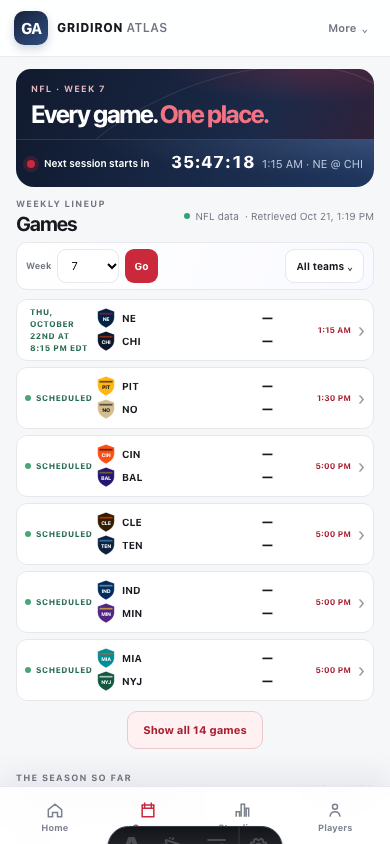
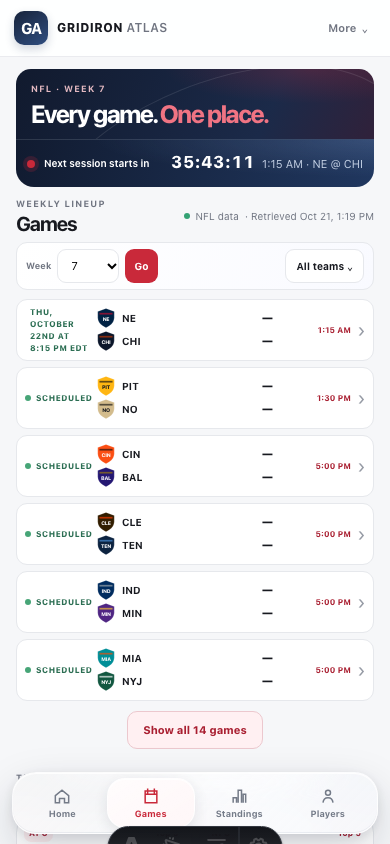
feat: add floating liquid-glass mobile navigation

diff --git a/tests/example.spec.ts b/tests/example.spec.ts
@@ -765,6 +765,22 @@ test('compact app fits target viewports without horizontal overflow', async ({ p
 	await page.setViewportSize({ width: 390, height: 844 });
 	await page.goto('/');
 	await expect(page.getByRole('navigation', { name: 'App navigation' })).toBeVisible();
+	const appNavStyle = await page.locator('.mobile-nav').evaluate((element) => {
+		const bounds = element.getBoundingClientRect();
+		const style = getComputedStyle(element);
+		return {
+			left: bounds.left,
+			right: window.innerWidth - bounds.right,
+			bottom: window.innerHeight - bounds.bottom,
+			borderRadius: Number.parseFloat(style.borderRadius),
+			backdropFilter: style.backdropFilter || style.getPropertyValue('-webkit-backdrop-filter'),
+		};
+	});
+	expect(appNavStyle.left).toBeGreaterThanOrEqual(12);
+	expect(appNavStyle.right).toBeGreaterThanOrEqual(12);
+	expect(appNavStyle.bottom).toBeGreaterThanOrEqual(10);
+	expect(appNavStyle.borderRadius).toBeGreaterThanOrEqual(24);
+	expect(appNavStyle.backdropFilter).toContain('blur');
 	const visibleRows = await page.locator('[data-schedule-list] .game-row').evaluateAll((rows) =>
 		rows.filter((row) => {
 			const bounds = row.getBoundingClientRect();

diff --git a/src/styles/global.css b/src/styles/global.css
@@ -313,7 +313,7 @@ select {
 	.site-main {
 		width: min(100% - 32px, 1120px);
 		min-height: calc(100vh - 150px);
-		padding: 12px 0 calc(82px + env(safe-area-inset-bottom));
+		padding: 12px 0 calc(94px + env(safe-area-inset-bottom));
 	}
 
 	.page-heading {
